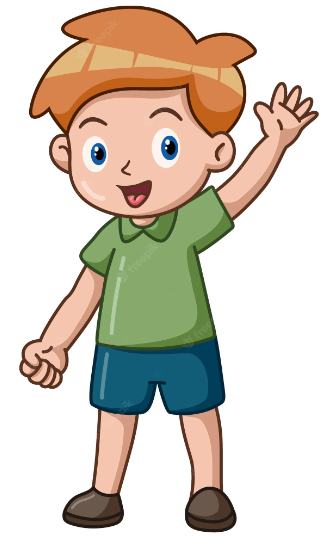
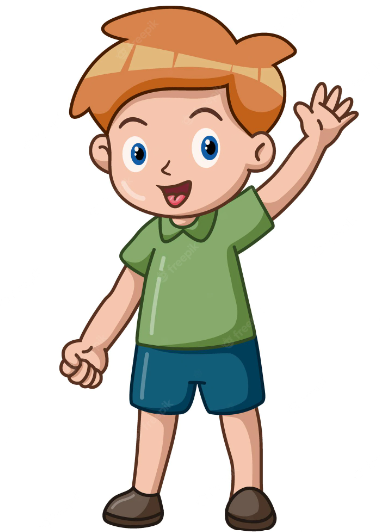
Image stick succeffuly but need edit

Changed region(s): [[0.0619, 0.0, 0.9907, 1.0]]

diff --git a/GUI/GUI.cpp b/GUI/GUI.cpp
@@ -585,7 +585,7 @@ void GUI::DrawImage(Point P1, double width, double height,GfxInfo ImageInfo)
 	color DrawingClr;
 	if (ImageInfo.isSelected)	//shape is selected
 		DrawingClr = HighlightColor; //shape should be drawn highlighted
-	pWind->DrawImage("stick.JPG", P1.x, P1.y, width, height);
+	pWind->DrawImage("stick.jpg", P1.x, P1.y, width, height);
 	
 }
 

diff --git a/opStickImage.cpp b/opStickImage.cpp
@@ -49,7 +49,7 @@ void opStickImage::Execute()
 
 
 	//Create a Line with the above parameters
-	StickImage* I = new StickImage(P1,width, height,ImageGfxInfo);
+	StickImage* I = new StickImage(P1,300, 400,ImageGfxInfo);
 
 
 	//Add the Line to the list of shapes
